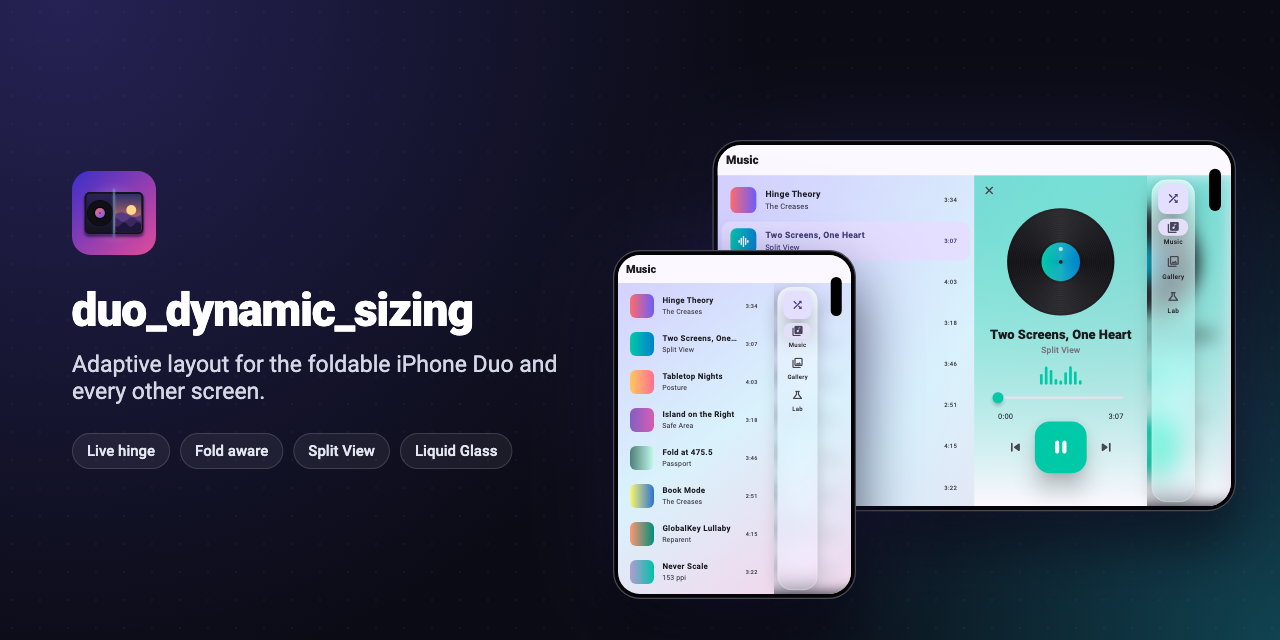
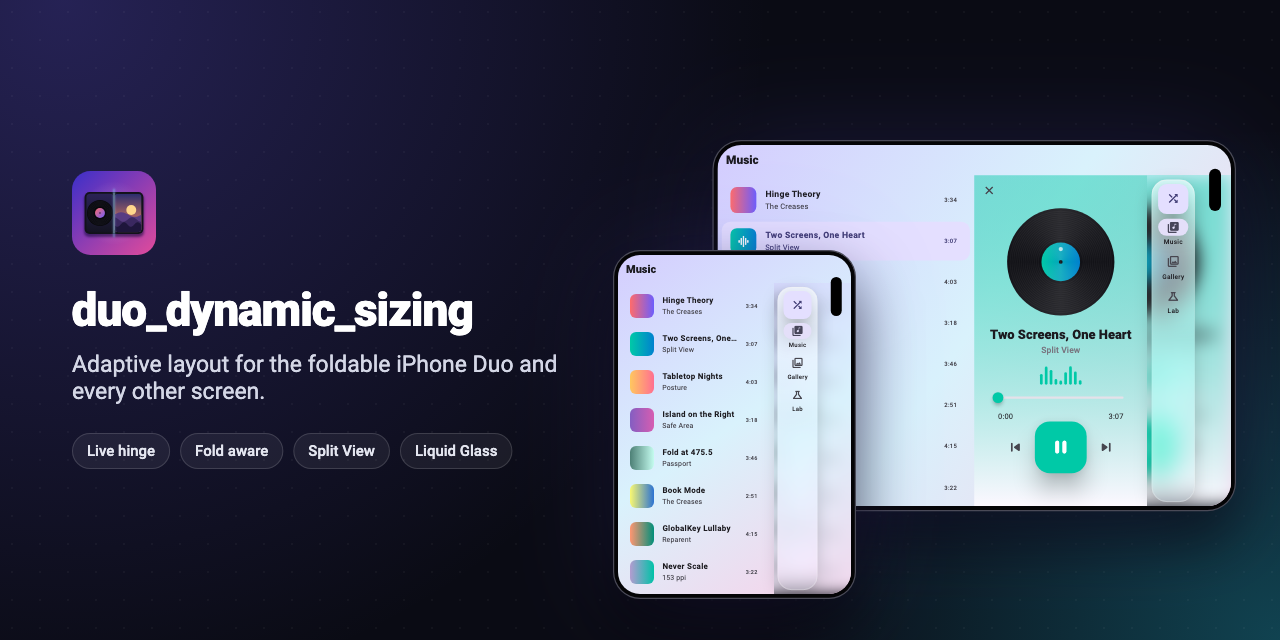
Run the color to the top of the screen
The demo app's title sat on a solid band while the rest of the page had the
gradient under it. The app bar is clear now whenever that background is on,
and every image and animation in doc/ is rendered again, the two Liquid
Glass shots retaken on the iOS 26 simulator.

Changed region(s): [[0.5625, 0.2188, 0.9688, 0.2812], [0.4688, 0.375, 0.6875, 0.4688]]

diff --git a/example/lib/main.dart b/example/lib/main.dart
@@ -1187,6 +1187,8 @@ class _HomeState extends State<Home> {
       selectedIndex: tab,
       onDestinationSelected: (i) => setState(() => tab = i),
       appBar: AppBar(
+        // the color runs to the top of the screen, no band behind the title
+        backgroundColor: _GlassRail.of(context) ? Colors.transparent : null,
         title: AnimatedSwitcher(
           duration: const Duration(milliseconds: 300),
           transitionBuilder: (child, a) => FadeTransition(
